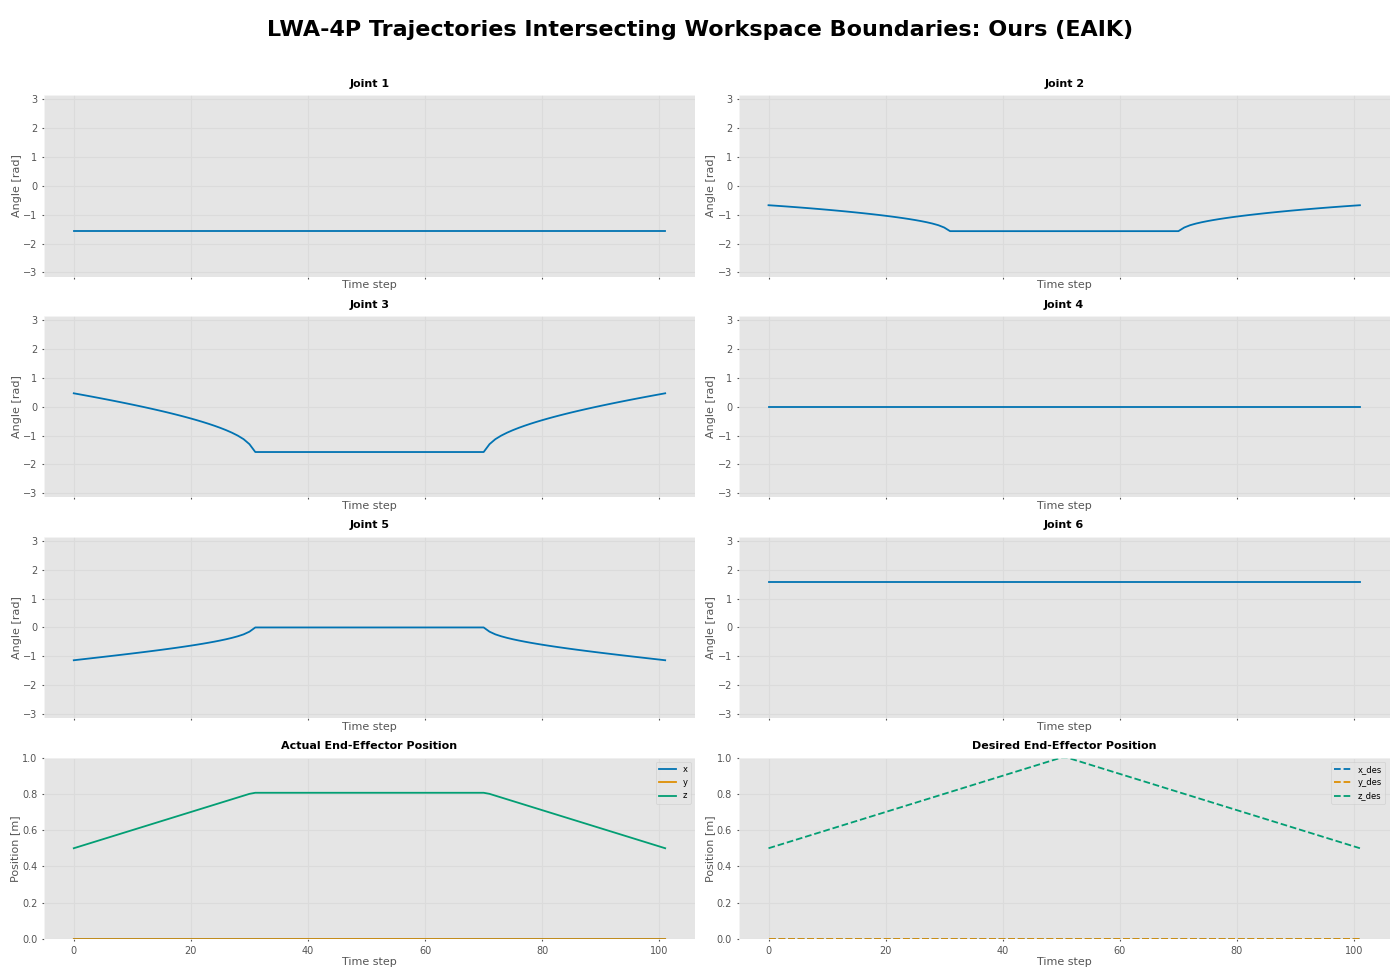
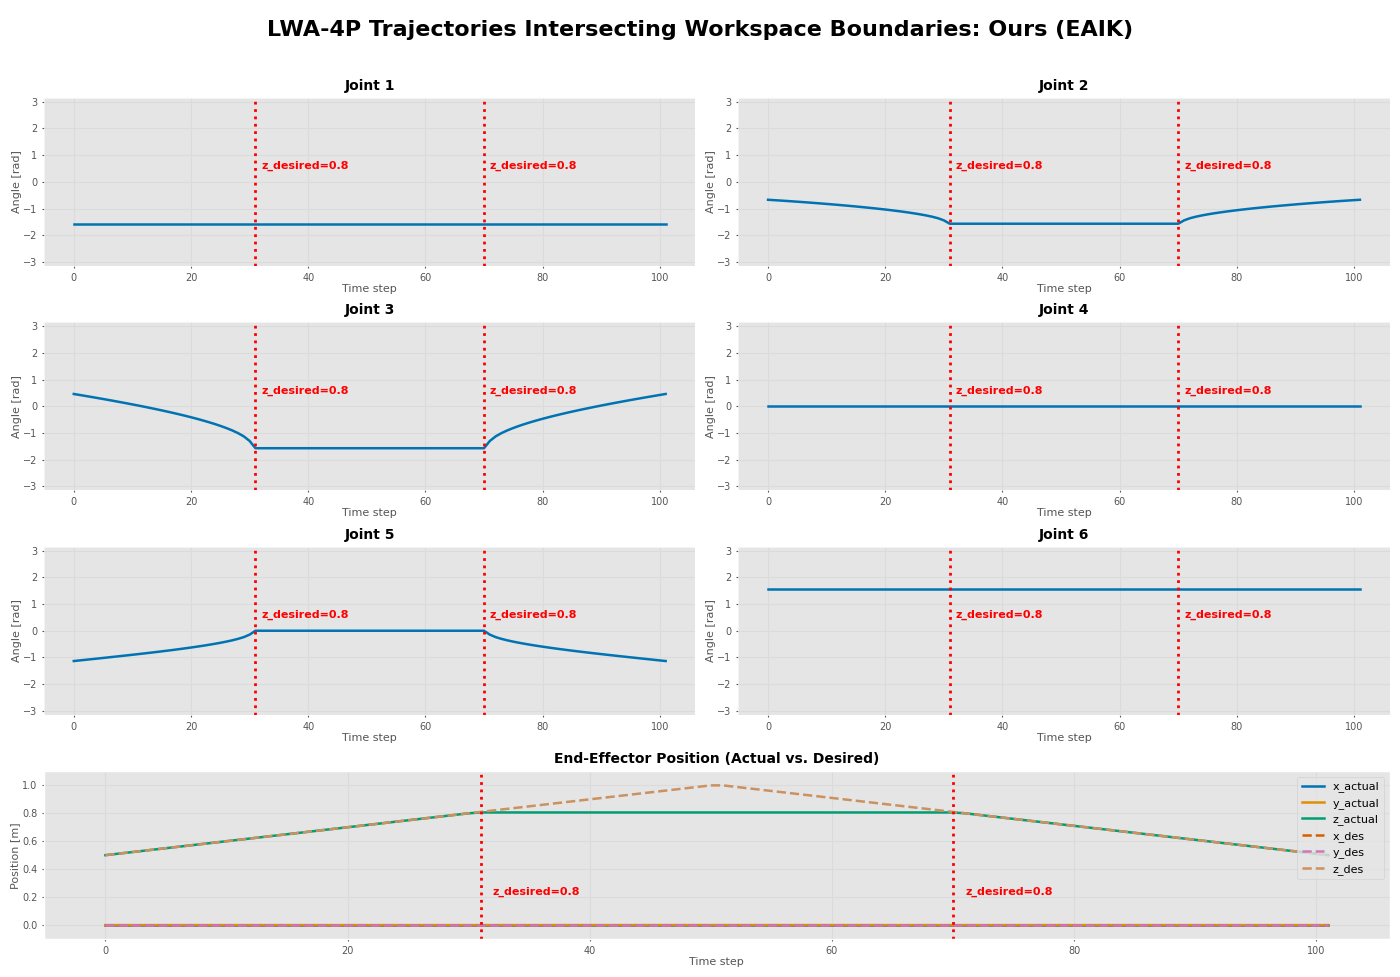
Updating README

diff --git a/README.md b/README.md
@@ -34,13 +34,13 @@ This software is available via our [Open-Source Implementation](https://github.c
 
 <figure figcaption align="center">
   <img align="center" width="70%" src="Images/Titlefigure.png"/>
-  <figcaption>A robot with a spherical wrist and the geometric representation of a
-subproblem we use to solve parts of its IK. Red points indicate a unit offset
-along the corresponding joint axes from the intersection point. The circles
-represent rotations of these offset vectors about the joint axes 4 and 5 by
-the solution angles θ4,5 and θ′
-4,5, which are determined by the intersection
-points of the two circles (black dots).
+  <figcaption>A fictitious robot is shown in a desired pose. We solve its IK by decomposing it into pre-solved
+subproblems with geometric meaning. One subproblem is visualized here. The desired rotation induced by
+the last three joints is denoted 3^R_6. Joint axes are denoted h4, h5, h6. Red points indicate a unit offset along
+the corresponding joint axis (dashed lines) from the point where the axes intersect—the center of a spherical
+wrist. The grey and blue circles represent full rotations of these offsets about the joint axes 4 and 5. The
+desired angles θ_4, θ_5 and θ′_
+4, θ′_5 are determined by the intersections of the circles (black dots).
   </figcaption>
 </figure>
 
@@ -109,18 +109,18 @@ $ make
 We currently provide support parametrizing a robot via DH parameters, homogeneous transformations of each joint in zero-pose with respect to the basis, as well as [ROS URDF](http://wiki.ros.org/urdf) files.
 Some quick examples that demonstrate the usability of our implementation are shown in the following code-snippets:
 
-#### URDF
+#### DH Parameters
 ```python
 import numpy as np
-from eaik.IK_DH import Robot
+from eaik.IK_DH import DhRobot
 
 """
 Example DH parametrization + forward kinematics for a random robot kinematic
 """
 
-d = np.array([0, 0, 0, 0.56426215, 0.31625527, 0])
-alpha = np.array([np.pi/2, -np.pi/2, 0, np.pi/2, np.pi/2, 0])
-a = np.array([0, 0.6766692, 0.93924826, 0.99652755, 0, 0.9355382])
+d = np.array([0.67183, 0.13970, 0, 0.43180, 0, 0.0565])
+alpha = np.array([-np.pi/2, 0, np.pi/2, -np.pi/2, np.pi/2, 0])
+a = np.array([0,0.43180, -0.02032, 0,0,0])
 bot = Robot(alpha, a, d)
 
 print(bot.hasKnownDecomposition())
@@ -132,15 +132,16 @@ print(bot.fwdKin(np.array([1,1,1,1,1,1])))
 ```python
 import numpy as np
 import random
-from eaik.IK_URDF import Robot
+from eaik.IK_URDF import UrdfRobot
 import evaluate_ik as eval
+
 
 def urdf_example(path, batch_size):
     """
     Loads spherical-wrist robot from urdf, calculates IK using subproblems and checks the solution for a certian batch size
     """
 
-    bot = Robot(path)
+    bot = UrdfRobot(path)
 
     # Example desired pose
     test_angles = []
@@ -161,10 +162,10 @@ def urdf_example(path, batch_size):
             pose_fwd = bot.fwdKin(Q)
             print(pose_fwd)
 ```
-Even more examples for the python interface are available [here](https://github.com/:pub-eaik/pub-eaik/tree/main/src/eaik/examples).
+Even more examples for the python interface are available [here](https://github.com/pub-eaik/pub-eaik/tree/main/examples).
 
 #### Using the C++ Library
-The example below is just a small code snipped. As the C++ code quickly becomes more evolved, we recommend to look into the [Software Tests](https://github.com/pub-eaik/pub-eaik/EAIK/tree/main/CPP/Tests) we wrote for the C++ side. 
+The example below is just a small code snipped. As the C++ code quickly becomes more evolved, we recommend to look into the [Software Tests](https://github.com/pub-eaik/pub-eaik/tree/main/CPP/Tests) we wrote for the C++ side. 
 The code there can also be used as an example on how you can use our library in a bigger project that, e.g., requires checks for least-square solutions etc.
 
 ```C
@@ -229,44 +230,68 @@ void main()
 
 Again, if you are stuck somewhere or have open questions feel free to reach out to us.
 
-## Solution-Consistency at Workspace Boundaries
-In the following experiment we compare the consistency of our method in the proximity of workspace Boundaries to that of IKFast.
-While [Elias et al.](#credits) already showed similar experiments on the example of the ABB IRB 6640 manipulator [in this Video](https://www.youtube.com/watch?v=XS1EA3Nls_k), an explicit comparison to IKFast further emphasizes the benefit in using our method for automatic decomposition alongside their stable subproblem solutions.
-We do this by the example of the Schunk Powerball LWA-4P manipulator - a modularizable 6R manipulator with a spherical wrist and two consecutive intersecting axes in the base.
+## Solution-Consistency at Workspace Boundaries and Singularities
+In the following experiments we compare the consistency of our method in the proximity of workspace Boundaries to that of IKFast.
+While [Elias et al.](#credits) already showed similar experiments,e.g., in their Figure 4 and 5, or on the example of the ABB IRB 6640 manipulator [in this Video](https://www.youtube.com/watch?v=XS1EA3Nls_k), an explicit comparison to IKFast further emphasizes the benefit in using our method for automatic decomposition alongside their stable subproblem solutions.
+We do this by the example of the Schunk Powerball LWA-4P manipulator—a modularizable 6R manipulator with a spherical wrist and two consecutive intersecting axes in its base.
 
-We follow a trajectory which starts in a feasible end effector position (0m, -0.001m, 0.5m), goes to a point outside the manipulator's workspace (0m, -0.001m, 1.0m) and then goes back to the starting position (0m, -0.001m, 0.5m). We sample 100 equidistant points from this trajectory and compute IK solutions via both IKFast and our method (EAIK).
-The end effector orientation is commanded to be constant throughout the whole trajectory (identity matrix).<br>
-**Note: While our method succeeds in computing the desired points without the slight offset in the y-direction (1mm), IKFast completely fails to yield any solution when dropping this offset, such that the commanded positions (approximatively) reach a singular configuration.**
+#### Experiment 1
+For the first experiment, we consider a linear end-effector trajectory reaching from a start position of (x, y, z) = (0m, 0m, 0.5m) to an end position (x, y, z) = (0m, 0m, 1.0m) and back. 
+We align the orientation of the end effector with that of the base of the robot and keep it constant throughout the whole trajectory. <br>
 
-The following animations show a simplified LWA-4P model that follows our desired trajectory. Blue errors resemble the joint axes of the manipulator, while the pink bars resemble its links.
+In this example, all points along the trajectory with a z-coordinate smaller than or equal to 0.8m are reachable by the manipulator (neglecting joint limits and self-collisions). However, the first and last axis of the LWA-4P are collinear at every point along this trajectory—the manipulator is always in a singular configuration. Hence,
+infinitely many IK solutions exist for each point along this trajectory with z ≤ 0.8m. On the other hand, all points with a z-coordinate larger than 0.8m are placed outside the workspace of the manipulator—no IK solution exists for any of these points. We sample 100 discrete points along this trajectory and try to compute the IK solution for each point. We obtain the following results:
+
+* When using IKFast, we get no solution at all for any point along this trajectory. Consequently, we can neither visualize the joint trajectories nor an animation of the manipulator following any obtained solutions.
+* When using our method (EAIK), we obtain at least one IK solution for any point along the trajectory.
+For points where z ≤ 0.8m, this solution is analytically correct with an error in the magnitude of double-precision accuracy. For points where z > 0.8m, this solution is a least-squares solution to the underlying
+subproblems as discussed in our manuscript under Section IV-B. We linearly interpolate between the
+discrete samples in joint space to obtain the joint trajectories in the following figure. While the solutions
+to the subproblems in [Elias et al.](#credits) are unable to represent the full infinite solution space that arises from singular
+configurations, they still yield at least one consistent and analytically accurate solution.<br>
+The following animation shows a simplified LWA-4P model that executes the IK solutions obtained via our method (EAIK). Blue arrows resemble the joint axes of the manipulator, while the pink bars resemble its links.
 Green points represent the commanded positions while exiting the workspace, while red points represent the commanded positions when re-entering the manipulator's workspace (100 points in total).
-Next to each animation, we also display the joint trajectories as well as the desired and actual end effector positions.
-**If no feasible solution is obtained from the IK solver, the model disappears (Only for IKFast).**
 
-As both approaches yield multiple feasible solutions, we select the solution which is closest in joint space to the previous solution. 
-
-#### EAIK: Schunk LWA-4P Workspace Boundaries
 <figure figcaption align="center">
   <img width="60%" src="Images/Eaik_wsb_animation.gif"/>
 </figure>
- The animation above illustrates the movements when using our method (EAIK). 
- We obtain valid joint angles even when commanding poses outside of the manipulator's workspace. There is no timestep where the IK solutions of our method are not properly defined - even during singular configurations.
- The joint trajectories, as well as the commanded and executed end effector positions, are displayed in the graphs below.
- Even when the manipulator reaches its workspace boundary, our method returns feasible least-squares solutions.
+
+When using our method (EAIK), we obtain sensible joint angles even when commanding poses outside of the workspace of the manipulator or during singular configurations.
+When the manipulator reaches its workspace boundary, our method returns feasible least-squares solutions. 
+The figure below visualizes the obtained joint trajectories, as well as the desired and actual end effector positions.
 <figure figcaption align="center">
   <img src="Images/EAIK_wsb_plot.png"/>
 </figure>
 
+#### Experiment 2
 
-#### IKFast: Schunk LWA-4P Workspace Boundaries
+For the second experiment, we induce a slight offset to the trajectory from Experiment 1 along the y-axis.
+The new trajectory starts with the end-effector position (x, y, z) = (0m, −0.001m, 0.5m), reaches to the
+position (x, y, z) = (0m, −0.001m, 1.0m) and goes back to (x, y, z) = (0m, −0.001m, 0.5m). Again, we sample
+100 equidistant points from this trajectory and try to compute IK solutions via both IKFast and our method
+(EAIK). <br>
+
+Just like in the first experiment, every point on the trajectory with z ≤ 0.8m can be reached by the manipulator. This time, however, all these points are reachable in non-singular configurations. Therefore, there exists
+only a finite set of IK solutions to each such point. For these points, both IKFast and our method yield the same solutions, which are accurate up to the expected floating-point precision.
+
+
+For all points where z > 0.8m, no IK solution exists. However, in real-world situations, values that lie exactly on the workspace boundary can not be perfectly separated from those that lie beyond it. 
+E.g., due to floating-point inaccuracies, a desired set-point of 0.8m may be represented as 0.8m + ϵ where 1 >> ϵ > 0. In these cases, IKFast again returns no solution at all. Our method, on the other hand, returns an IK solution that resembles the least-squares solution to the underlying subproblems. The error between the desired and actual error in the end-effector position is often negligible in such cases. These properties make the solutions returned by the subproblems in [Elias et al.](#credits), and thus the solutions provided by our method, consistent and stable even across workspace boundaries. 
+
+**As the offset induced in the y-direction is quite small (1mm), the trajectory plot (and also the animation) of our method's performance in this experiment is indistinguishable by the human eye from the plot in the first experiment. We therefore refrain from plotting the same figures again and refer the reader to the visualizations in the prior experiment.**
+
+The following animation shows a simplified LWA-4P model that executes the IK solutions obtained via IKFast for the trajectory in Experiment 2. Blue arrows resemble the joint axes of the manipulator, while the pink bars resemble its links.
+Green points represent the commanded positions while exiting the workspace, while red points represent the commanded positions when re-entering the manipulator's workspace (100 points in total).
+**If no feasible solution is obtained from the IK solver, the model disappears.**
+
 <figure figcaption align="center">
   <img width="60%" src="Images/IKFast_wsb_animation.gif"/>
 </figure>
-The animation above illustrates the movements we obtain when using IKFast. 
-IKFast fails to yield any feasible solution when commanding positions outside the workspace/if the robot is in a singular configuration. 
-The manipulator-model disappears for all such commanded points in the animation and reappears once a feasible solution is obtained again.
-The joint trajectories, as well as the commanded and executed end effector positions, are displayed in the graphs below.
-Once the manipulator reaches its workspace boundary, IKFast returns no solution - the joint trajectories become discontinuous.
+
+IKFast fails to yield any solution when commanding positions outside the workspace or if the robot is in a singular configuration. 
+The joint trajectories, as well as the commanded and executed end-effector positions, are displayed in the graphs above.
+
+The trajectories resulting from IKFast are displayed in the plot below. Once the manipulator reaches its workspace boundary, IKFast returns no solution—the joint trajectories become discontinuous in this part of the plot.
 <figure figcaption align="center">
   <img src="Images/IKFast_wsb_plot.png"/>
 </figure>
@@ -285,11 +310,8 @@ Besides IKFast, we also list the computation times on the numerical Gauss-Newton
 (GN) and Levenberg-Marquard (LM) solvers implemented
 in the [Python Robotics Toolbox](https://github.com/petercorke/robotics-toolbox-python). 
 
-The following figure shows a comparison of the IK computation times of above-mentioned manipulators on 5,000 randomly assigned end effector poses (left) and the batch-times
-on 10,000 random (analytically solvable) manipulators (right). The measured times in (left) correspond to a single solution for the numerical approaches and
-the set of all possible solutions for EAIK and IKFast, respectively. In the right image, we additionally include derivation times and only show our method along the
-numerical ones, as the derivation time of IKFast deemed it unfeasible for this task. Our method shows the smallest overall variance and, except for the
-Puma robot, consistently surpasses all other methods.
+The following figure shows a comparison of the IK computation times of six representative manipulators on 5,000 randomly assigned end-effector poses (left) and the batch-times
+on 10,000 random (analytically solvable) 6R manipulators (right). The measured times in (left) correspond to a single solution for the numerical approaches—which we marked with an asterisk—and the set of all possible solutions for EAIK, IKFast, and the method by [He et al.](#credits) respectively. In (left), we additionally include derivation times and only show our method along the numerical ones, as the derivation times of IKFast are too long for this task to finish within a reasonable time. Our method shows the smallest overall variance and, except for the Puma and Panda robot, consistently surpasses all other methods.
 <figure figcaption align="center">
   <img src="Images/Computation_Times.png"/>
   <figcaption></figcaption>
@@ -330,7 +352,7 @@ IKFlow makes use of, which leads to less diverse solutions.
 
 The following figure shows the just mentioned values for the Panda robot, as well as the position and orientation errors that different methods resulted for non-redundant UR5 robot. 
 <figure figcaption align="center">
-  <img src="Images/Panda_UR5.png"/>
+  <img src="Images/panda_ur5_error.png"/>
   <figcaption>Computation times and position error for the Panda robot, as well as the UR5. The dashed red lines
 indicates the repeatability precision of the robot according to its datasheet.</figcaption>
 </figure>
@@ -369,6 +391,10 @@ vol. 7, no. 3, 2022.
 P. Corke and J. Haviland, “Not your grandmother’s toolbox–the
 robotics toolbox reinvented for Python,” in Proc. of the IEEE Int.
 Conf. on Robotics and Automation (ICRA), 2021, pp. 11 357–11 363
+
+Y. He and S. Liu, “Analytical inverse kinematics for Franka Emika
+Panda – a geometrical solver for 7-DOF manipulators with un-
+conventional design,” in Proc. of the IEEE Int. Conf. on Control, Mechatronics and Automation (ICCMA), 2021, pp. 194–199
 
 B. Efron. "Better Bootstrap Confidence Intervals". Journal of the American Statistical Association. Vol. 82, No. 397: 171–185, 1987
 
